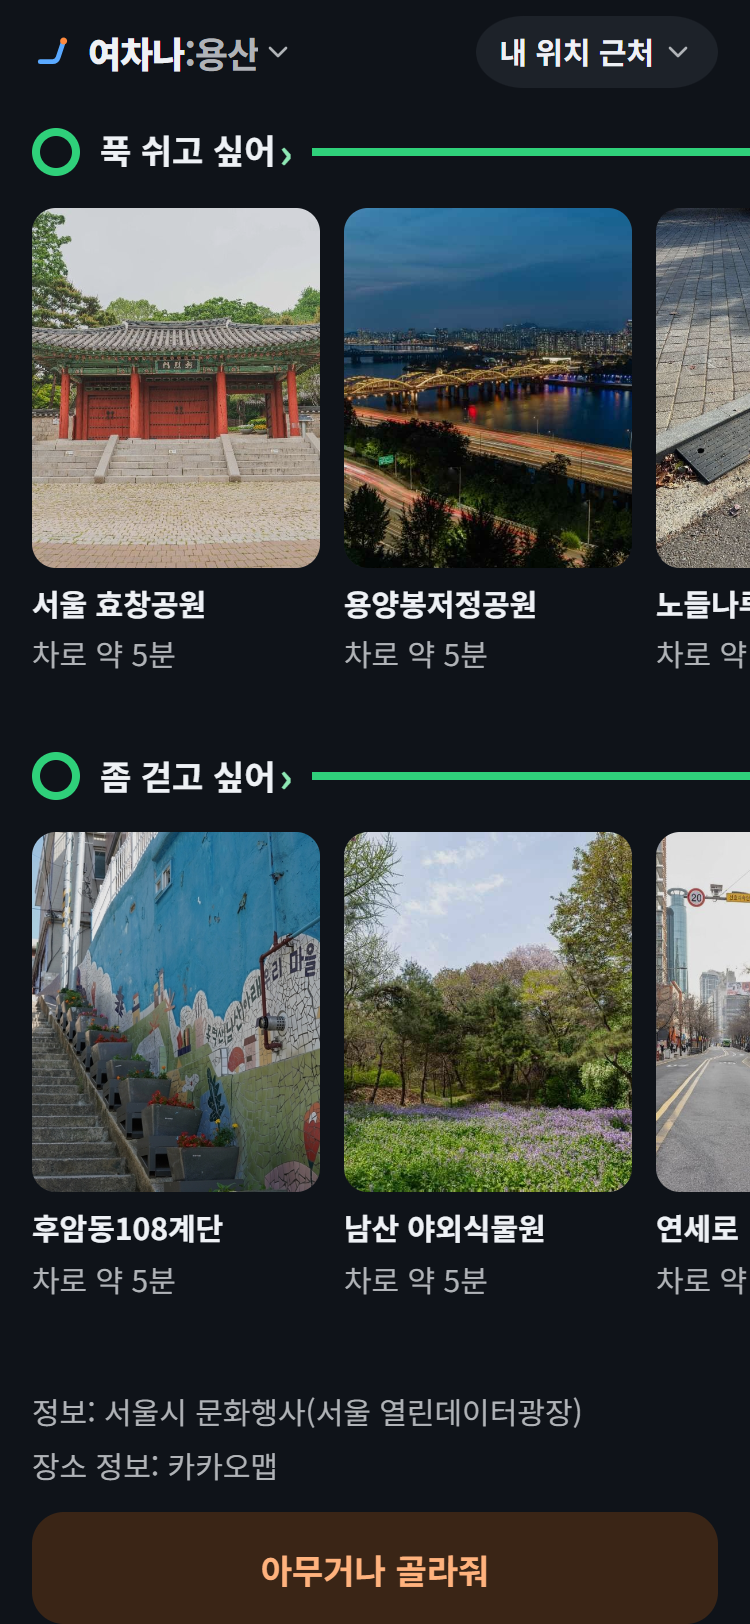
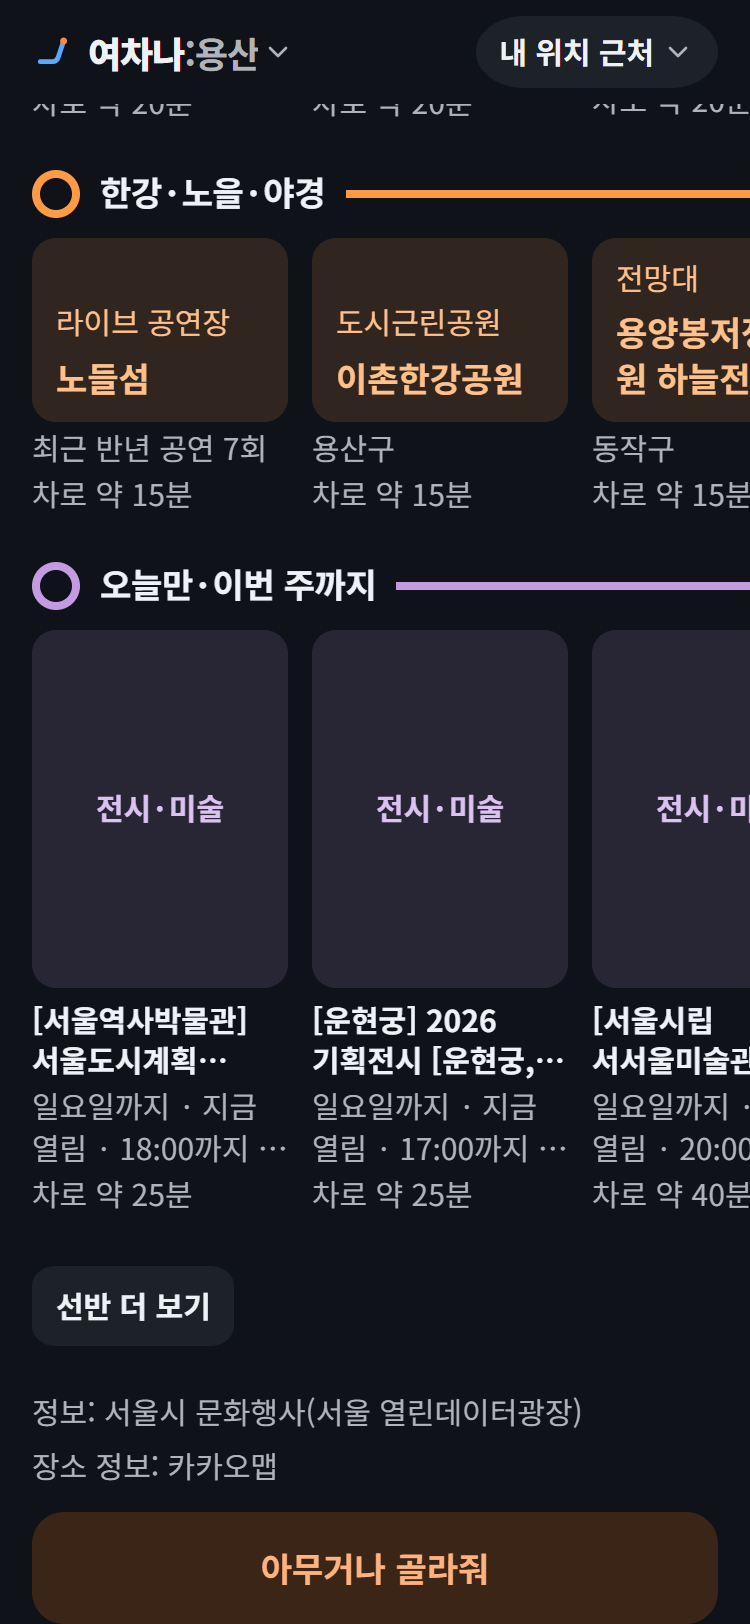
fix(seoul): 선반 타일은 글자 높이(92px), 홈은 8줄 + 「선반 더 보기」 (ADR-0117 Amendment 3)
- 사진 없는 타일의 빈 정사각형 면을 없애 375 첫 화면에 사진 선반이 보임(첫 사진 위끝 769px)
- 순서표 앞 8줄만 그리고 나머지는 같은 화면에서 펼침(방문 동안 유지), 6장 이상 줄 4줄 이상은 앞 8줄 안에서 테스트
- 「선반 더 보기」 en·ja·zh-Hans 추가, 스크린샷 다시 찍음

diff --git a/apps/web/src/browse-view.ts b/apps/web/src/browse-view.ts
@@ -30,6 +30,8 @@ export const BROWSE_COPY = {
   fromKakao: '장소 정보: 카카오맵',
   /** the 동네 sheet's heading over its list */
   inHood: '지금 이 동네에서',
+  /** 서울 홈 (ADR-0117 Amendment 3): the shelves past the first HOME_SHELVES */
+  moreShelves: '선반 더 보기',
   none: '지금 둘러볼 것이 없어요.',
   /** 오늘 시간 on the card sheet: 「오늘 11:00~18:00」 */
   today: (times: string) => `오늘 ${times}`,
@@ -96,6 +98,10 @@ export interface MoodCard {
 export type HomeRow = Shelf | { key: MoodShelf; cards: MoodCard[] };
 
 let homeWatch: IntersectionObserver | undefined;
+/** 서울 홈 draws this many shelves (the order's first), the rest behind 선반 더 보기 (ADR-0117 Amendment 3) */
+export const HOME_SHELVES = 8;
+/** 선반 더 보기 pressed: open for the rest of the visit (a redraw, the list's minute moving on, keeps it open) */
+let allShelves = false;
 /** 서울 홈의 선반 (ADR-0117, specs/seoul-home-shelves.md): each shelf a heading — a mood's is its button (the same as the mood
  * button: its results) — and its cards side by side. A mood card is that mood's results with the place first (Amendment 1).
  * The pictures are asked for once in view, and while the 시작 화면 covers the home held back for it (later.ts, ADR-0116). */
@@ -116,7 +122,13 @@ export function homeShelvesView(doc: Document, shelves: readonly HomeRow[], labe
       : undefined;
   homeWatch?.disconnect();
   homeWatch = later;
-  for (const sh of shelves) {
+  const more = el(doc, 'button', { type: 'button', class: 'tbtn shelves-more' }, BROWSE_COPY.moreShelves);
+  more.addEventListener('click', () => {
+    allShelves = true;
+    for (const sec of box.querySelectorAll<HTMLElement>('.shelf[hidden]')) sec.hidden = false;
+    more.remove();
+  });
+  for (const [i, sh] of shelves.entries()) {
     // its line (browse.css): a mood's places, the day's own events, or things to do
     const line = sh.key in labels ? 'place' : sh.key === 'stage' || sh.key === 'today' || sh.key === 'exhibit' ? 'day' : 'fun';
     const sec = el(doc, 'section', { class: 'shelf', 'aria-labelledby': `shelf-${sh.key}`, 'data-line': line });
@@ -146,8 +158,10 @@ export function homeShelvesView(doc: Document, shelves: readonly HomeRow[], labe
       row.append(...(sh as Shelf).cards.map((c) => cardLi(doc, c, later)));
     }
     sec.append(row);
+    if (i >= HOME_SHELVES && !allShelves) sec.hidden = true;
     box.append(sec);
   }
+  if (shelves.length > HOME_SHELVES && !allShelves) box.append(more);
   box.append(...sources);
   return box;
 }

diff --git a/apps/web/src/browse.css b/apps/web/src/browse.css
@@ -89,12 +89,13 @@
     --ink-place: #8ee8b4; --ink-fun: #ffc08a; --ink-day: #dcc2f0;
   }
 }
-.shelves { margin-top: 4px; }
-.shelves .shelf { --ln: var(--ln-fun); --ink: var(--ink-fun); margin-top: 24px; }
+.shelves { margin-top: 0; }
+.shelves .shelf { --ln: var(--ln-fun); --ink: var(--ink-fun); margin-top: 16px; }
+.shelves .shelf:first-child { margin-top: 12px; }
 .shelves .shelf[data-line="place"] { --ln: var(--ln-place); --ink: var(--ink-place); }
 .shelves .shelf[data-line="day"] { --ln: var(--ln-day); --ink: var(--ink-day); }
 .shelves .shelf h2 {
-  display: flex; align-items: center; gap: 10px; min-height: 44px; margin: 0 -16px 6px 0;
+  display: flex; align-items: center; gap: 10px; min-height: 32px; margin: 0 -16px 6px 0;
   font-size: 1.0625rem; line-height: 1.35; font-weight: 700; letter-spacing: -0.01em;
 }
 /* the station: a ring in the line's colour; the line runs on to the edge */
@@ -102,12 +103,21 @@
 .shelves .shelf h2::after { content: ""; flex: 1; min-width: 24px; border-top: 4px solid var(--ln); }
 .shelves .cult-src { margin-top: 20px; }
 .shelves .cult-src + .cult-src { margin-top: 4px; }
-.shelf-go { display: inline-flex; align-items: center; gap: 2px; min-height: 44px; font: inherit; }
+.shelf-go { display: inline-flex; align-items: center; gap: 2px; min-height: 44px; margin: -6px 0; font: inherit; }
 .shelf-go::after { content: "›"; color: var(--ink); font-size: 1.25rem; line-height: 1; }
 .shelf-go:active { color: var(--muted); }
 .shelves .btile { background: color-mix(in srgb, var(--ln) 14%, var(--bg)); color: var(--ink); }
 .shelves .bpic.noimg { background: color-mix(in srgb, var(--ln) 14%, var(--bg)); }
 .shelves .noimg .balt { color: var(--ink); }
+/* a tile is as tall as its words (ADR-0117 Amendment 3: no empty coloured square): its kind on one line, the name on two at
+   most, every tile of a shelf the same 92 */
+.shelves .btile { aspect-ratio: auto; min-height: 92px; padding: 10px 12px; gap: 6px; justify-content: flex-end; }
+.shelves .btile .bk { overflow: hidden; white-space: nowrap; text-overflow: ellipsis; }
+.shelves .btile .bt { -webkit-line-clamp: 2; }
+.shelves-more { margin-top: 20px; }
+/* the lines under a card close-set, so a photo shelf starts on the first screen at 375 (Amendment 3) */
+.shelves .bcard .meta { margin-top: 2px; line-height: 1.4; }
+.shelves .bcard .nm { margin-top: 6px; }
 /* a 동네 tile under 「걸어 볼 동네」 need not say 동네 again */
 .shelves .t-hood { justify-content: flex-end; }
 .shelves .t-hood .bk { display: none; }

diff --git a/apps/web/tests/culture-app.test.ts b/apps/web/tests/culture-app.test.ts
@@ -93,6 +93,14 @@ describe.runIf(NATION)('서울 홈의 선반 (switch on)', () => {
     expect(shelves().compareDocumentPosition(any) & Node.DOCUMENT_POSITION_FOLLOWING).toBeTruthy();
     expect(shelfRows().length).toBeGreaterThanOrEqual(4);
     expect(shelfRows().length).toBeLessThanOrEqual(SHELVES.length + MOODS.length);
+    // 8 drawn, the rest behind 선반 더 보기 (Amendment 3); pressed, all of them
+    const shown = () => $$('#shelves .shelf:not([hidden])').length;
+    expect(shown()).toBe(Math.min(8, shelfRows().length));
+    if (shelfRows().length > 8) {
+      await tap('#shelves .shelves-more');
+      expect(shown()).toBe(shelfRows().length);
+      expect($('#shelves .shelves-more')).toBeNull();
+    }
     for (const r of shelfRows()) {
       expect(r.querySelectorAll('.bcard').length).toBeGreaterThan(0);
       expect(r.querySelectorAll('.bcard').length).toBeLessThanOrEqual(12);

diff --git a/apps/web/tests/browse.test.ts b/apps/web/tests/browse.test.ts
@@ -222,7 +222,8 @@ describe('서울 홈의 선반 (ADR-0117)', () => {
 
   it.each(Object.entries(HERE).flatMap(([name, p]) => [14, 19, 22].map((h) => [name, h, p] as const)))('%s at %i:00: ≥ 4 shelves of ≥ 6, ≤ 12 each, none shut, each place once, the order table', (_, h, p) => {
     const list = home(p, h);
-    expect(list.filter((sh) => size(sh) >= FULL).length).toBeGreaterThanOrEqual(4);
+    // within the 8 drawn before 선반 더 보기 (Amendment 3)
+    expect(list.slice(0, 8).filter((sh) => size(sh) >= FULL).length).toBeGreaterThanOrEqual(4);
     for (const sh of list) {
       expect(size(sh)).toBeGreaterThan(0);
       expect(size(sh)).toBeLessThanOrEqual(PER_SHELF);

diff --git a/apps/web/src/i18n/ja.ts b/apps/web/src/i18n/ja.ts
@@ -254,6 +254,7 @@ export const JA: Lang = {
       kakao: 'カカオマップで見る',
       fromKakao: '場所の情報：カカオマップ',
       inHood: '今この街で',
+      moreShelves: 'ほかの列も見る',
       none: 'いま見て回れるものがありません。',
       today: (times) => `今日 ${times}`,
       more: '詳しく（予約・案内）',

diff --git a/apps/web/src/i18n/zh-Hans.ts b/apps/web/src/i18n/zh-Hans.ts
@@ -249,6 +249,7 @@ export const ZH: Lang = {
       kakao: '在Kakao地图查看',
       fromKakao: '地点信息：Kakao地图',
       inHood: '现在在这个街区',
+      moreShelves: '查看更多',
       none: '现在没有可逛的活动。',
       today: (times) => `今天 ${times}`,
       more: '详情（订票·介绍）',

diff --git a/apps/web/src/i18n/en.ts b/apps/web/src/i18n/en.ts
@@ -256,6 +256,7 @@ export const EN: Lang = {
       kakao: 'See on Kakao Map',
       fromKakao: 'Place info: Kakao Map',
       inHood: 'In this neighbourhood now',
+      moreShelves: 'More rows',
       none: 'Nothing to browse right now.',
       today: (times) => `Today ${times}`,
       more: 'Details (tickets · info)',

diff --git a/docs/adr/0117-seoul-home-shelves.md b/docs/adr/0117-seoul-home-shelves.md
@@ -71,3 +71,8 @@ ADR-0088과 다른 점 (서울 홈 선반 안에서만):
 - 「묶을 것은 회색 면」 대신 선반은 면 없이 노선 선으로 묶는다.
 - 장식처럼 보이는 선(노선)이 들어간다. 단 정보(선반의 종류)를 말하는 선이다. 그림자·그라데이션 금지는 그대로.
 - 아무거나는 기분 목록이 숨으면 한 줄 넓은 면(높이 56)이 된다.
+
+## Amendment 3 (2026-11-05) — 타일 높이와 8줄
+
+- 사진 없는 즐길 거리·동네 타일은 정사각형이 아니라 글자 높이(92px, 종류 한 줄 + 이름 두 줄까지)로 둔다. 한 선반 안 타일은 모두 같은 높이다. 카드 아래 줄 간격도 좁혔다. 순서표는 그대로이고, 375×812 첫 화면에 사진 선반(머리와 사진 윗부분)이 보인다(11-04 14시 용산 측정: 첫 사진 위끝 769px). 320에서는 바로 아래(810px)에서 시작한다.
+- 홈에는 순서표의 앞 8줄만 그리고, 나머지는 「선반 더 보기」 버튼 하나로 같은 화면에서 펼친다. 펼친 상태는 저장하지 않고 그 방문 동안만 유지한다(5분마다 다시 그려도 접히지 않음). 6장 이상 줄 4줄 이상 기준은 앞 8줄 안에서 확인한다(테스트).
